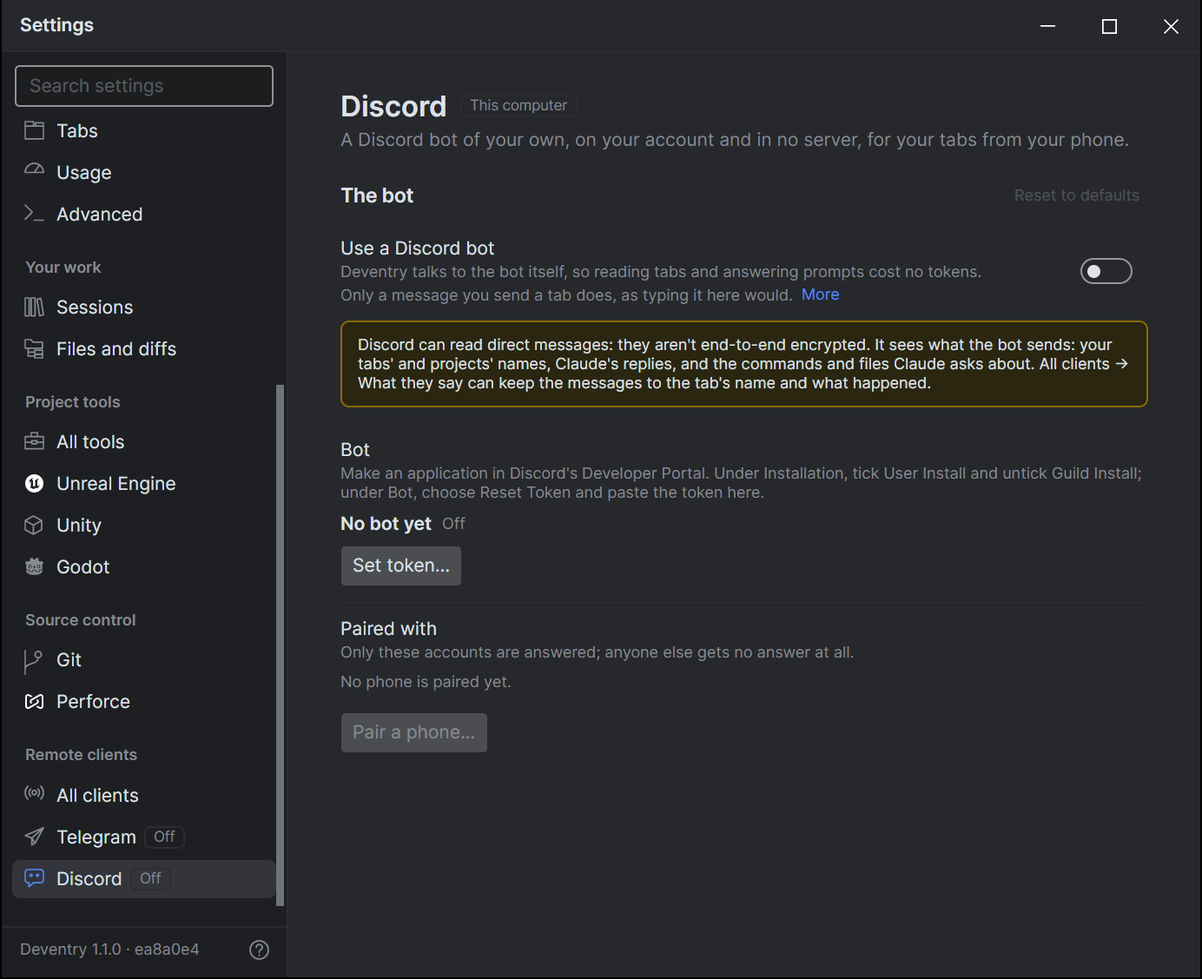
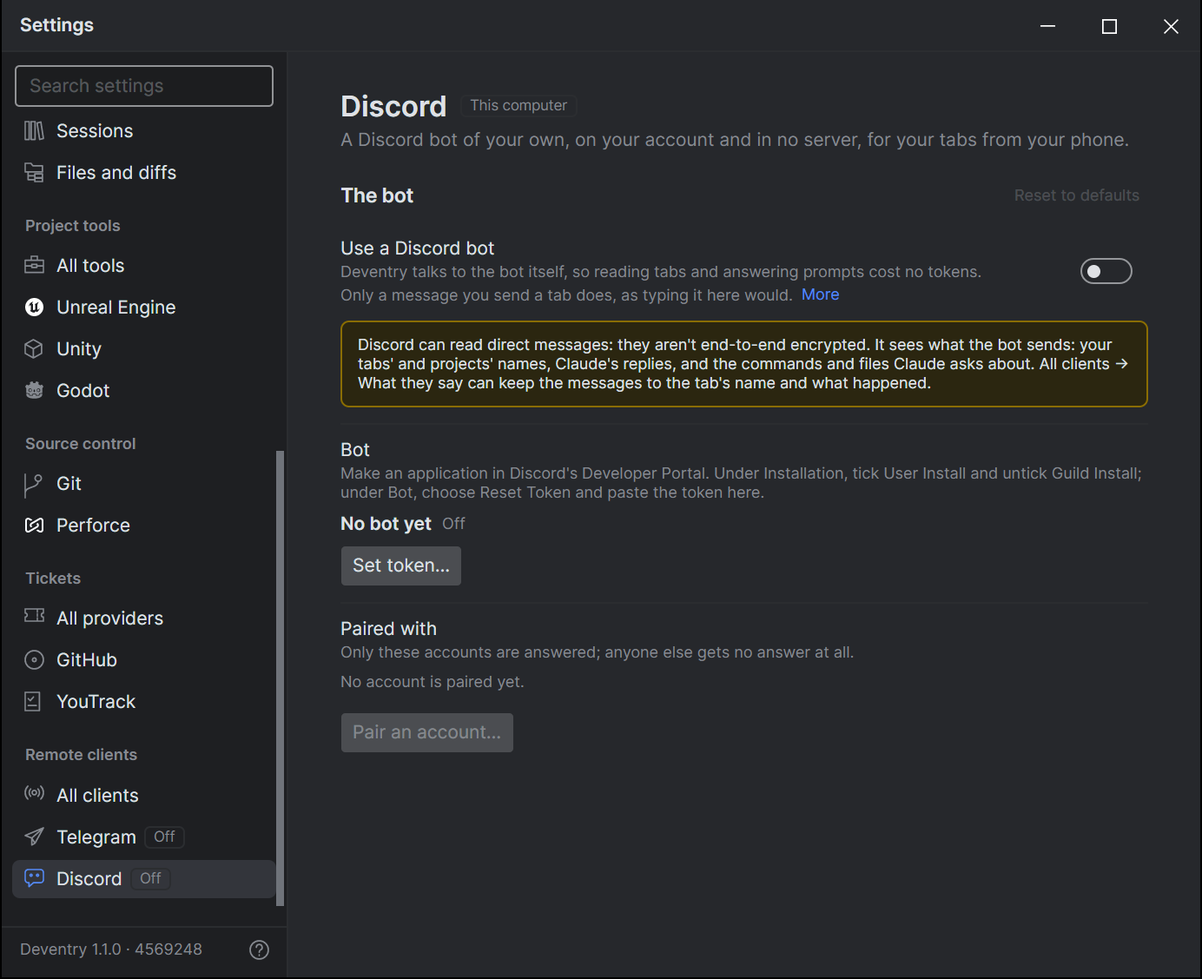
Pair an account… rather than a phone, and a Discord bot shown offline explained

diff --git a/src/Deventry.App/ViewModels/Settings/RemoteClientPage.cs b/src/Deventry.App/ViewModels/Settings/RemoteClientPage.cs
@@ -31,7 +31,7 @@ public sealed class PairedAccountRow(RemoteAccount account, string pairedAt, Act
 /// <summary>
 /// One kind of remote client's page in Settings → Remote clients (DESIGN.md §18, "Remote clients"), drawn from what the
 /// kind declares (<see cref="IRemoteClientType"/>), so a kind needs no page or view of its own: its switch, what its
-/// service can read, its own account and secret, and the accounts paired with it with pairing a phone. Telegram's is
+/// service can read, its own account and secret, and the accounts paired with it with pairing an account. Telegram's is
 /// the first. What every client shares is on <see cref="AllClientsPage"/>. All of it this computer's: a client is run by
 /// one machine, and its secret is in this machine's credential store.
 /// </summary>
@@ -254,7 +254,7 @@ public sealed partial class RemoteClientPage : SettingsPage, IDisposable
         OnPropertyChanged(nameof(HasAccounts));
     }
 
-    /// <summary>A phone can be paired: the client has its secret. Its account's name makes the QR code; without it, the code is sent by hand.</summary>
+    /// <summary>An account can be paired: the client has its secret. Its account's name makes the QR code; without it, the code is sent by hand.</summary>
     public bool CanPair => HasSecret && IsCredentialStoreAvailable;
 
     public string CanPairTip => $"Set the {Type.SecretName} first";
@@ -299,7 +299,7 @@ public sealed partial class RemoteClientPage : SettingsPage, IDisposable
     [ObservableProperty]
     public partial string PairingTimeLeft { get; private set; } = "";
 
-    /// <summary><b>Pair a phone…</b>: a new code, its QR code, and the time it has left.</summary>
+    /// <summary><b>Pair an account…</b>: a new code, its QR code, and the time it has left.</summary>
     [RelayCommand]
     private void StartPairing()
     {

diff --git a/src/Deventry.App/ViewModels/RemoteClientsIndicatorViewModel.cs b/src/Deventry.App/ViewModels/RemoteClientsIndicatorViewModel.cs
@@ -120,7 +120,7 @@ public sealed partial class RemoteClientsIndicatorViewModel : ObservableObject, 
         var state = _remote.StateOf(type.Kind);
         return state.Status switch
         {
-            RemoteClientStatus.Connected when _remote.PairingOf(type.Kind).Accounts.Count == 0 => "connected, but no phone is paired",
+            RemoteClientStatus.Connected when _remote.PairingOf(type.Kind).Accounts.Count == 0 => "connected, but no account is paired",
             RemoteClientStatus.Connected => _remote.LastSent(type.Kind) is { } sent ? $"connected, last sent {Time(sent)}" : "connected",
             RemoteClientStatus.Connecting => state.Reason is { } why ? $"connecting. {why}" : "connecting…",
             RemoteClientStatus.Failed => state.Reason is { } reason ? $"stopped. {reason}" : "stopped",

diff --git a/src/Deventry.App/Services/RemoteClientsService.cs b/src/Deventry.App/Services/RemoteClientsService.cs
@@ -88,7 +88,7 @@ public sealed class RemoteClientsService : IRemoteDesk, IAsyncDisposable
 
     public IRemoteClientType Type(string kind) => Types.First(t => t.Kind == kind);
 
-    /// <summary>Pairing a phone with the client of <paramref name="kind"/>, and the accounts paired with it.</summary>
+    /// <summary>Pairing an account with the client of <paramref name="kind"/>, and the accounts paired with it.</summary>
     public RemotePairing PairingOf(string kind) => _pairings[kind];
 
     /// <summary>The client of <paramref name="kind"/>, while it's on.</summary>

diff --git a/src/Deventry.Core/Remote/Telegram/TelegramClientType.cs b/src/Deventry.Core/Remote/Telegram/TelegramClientType.cs
@@ -2,7 +2,7 @@ namespace Deventry.Core.Remote.Telegram;
 
 /// <summary>
 /// Telegram, as a kind of remote client (DESIGN.md §18, "Remote clients", "Telegram"): a bot the user makes with
-/// @BotFather, its token kept in the credential store, and a phone paired by opening the bot with <c>/start</c> and a
+/// @BotFather, its token kept in the credential store, and an account paired by opening the bot with <c>/start</c> and a
 /// code.
 /// </summary>
 public sealed class TelegramClientType : IRemoteClientType

diff --git a/tests/Deventry.App.Tests/RemoteClientsIndicatorTests.cs b/tests/Deventry.App.Tests/RemoteClientsIndicatorTests.cs
@@ -123,7 +123,7 @@ public class RemoteClientsIndicatorTests
         await using var indicator = await StartAsync("telegram");
 
         Assert.Equal(RemoteIndicatorLevel.Trouble, indicator.Read(v => v.Level));
-        Assert.Equal("Telegram: connected, but no phone is paired", indicator.Read(v => v.Clients.Single().Line));
+        Assert.Equal("Telegram: connected, but no account is paired", indicator.Read(v => v.Clients.Single().Line));
     }
 
     [Fact]

diff --git a/src/Deventry.Core/Remote/RemotePairing.cs b/src/Deventry.Core/Remote/RemotePairing.cs
@@ -121,7 +121,7 @@ public sealed class RemotePairing
         }
     }
 
-    /// <summary><b>Pair a phone…</b>: a new code, replacing any before it.</summary>
+    /// <summary><b>Pair an account…</b>: a new code, replacing any before it.</summary>
     public PairingCode Start()
     {
         PairingCode code;

diff --git a/DESIGN.md b/DESIGN.md
@@ -2358,7 +2358,7 @@ A **Settings** window opens with `Ctrl+,` on Windows or `Cmd+,` on macOS, or fro
 | Conversation | **Steps and replies**: **Quieter in-between steps** (on by default; [§18](#conversation-cards)), **Indent your messages** and **Indent Claude's steps** (both off by default; [§18](#conversation-cards)), **Show tool calls collapsed** (off; [§18](#conversation-cards)), **Show modified files collapsed** (off; [§18](#conversation-cards)), **Fold each chain of steps** (off; each tab can have its own, [Per-tab overrides](#per-tab-overrides); [§18](#conversation-cards)), **Show thinking expanded** (off), **Show subagents' work**: under the tab in the sidebar (the default) or in the conversation ([§5](#subagents)), and **Show every hook run** (off; [§5](#hook-runs)). **Marks in the scroll bar**: **Mark your messages** (on by default) and **Mark Claude's answers** (off by default; [§18](#conversation-cards)). **While Claude works**: show fun words and show what Claude is doing (both on by default; [Working line](#working-line)), and **Messages sent while Claude works**: sent into the turn (the default) or queued until it ends ([§5](#queued-messages)). **Message box**: **Show when the prompt cache expires** (on by default) and **Suggest my next prompt** (off by default; [§5](#prompt-suggestions)). **Tab rows**: show context and task progress (both on by default; [§4](#sidebar), [§5](#tasks)), and running subagents (off by default; [§4](#sidebar)); the git branch is on Git. |
 | Notifications | **Notify me when**: a switch for each type in [§10](#10-notifications), including **A project action finishes**. **The Dock or taskbar icon**: show how many tabs need you, and animate it while tabs work or wait. |
 | All providers, GitHub, YouTrack | The **Tickets** group, after **Source control**, as **Project tools** has All tools then a page per project type. All of it this computer's. **All providers**, its icon a ticket: **Working on a ticket** (**Work on a ticket in**, **Name new tabs after their ticket** and **Include the ticket's comments**). Then a page for each provider, drawn from what it declares: **GitHub** (**Servers**, each with **Sign in with** and its token, and **Add a server…**; **Projects**: **Find a project's repository from its git remote**; **Changing tickets**: **Let Deventry change tickets**) and **YouTrack** (**Servers**, each with its token; **Changing tickets**). See [§18](#tickets). |
-| All clients, Telegram, Discord | The **Remote clients** group, the sidebar's last, as **Project tools** has All tools then a page per project type. All of it this computer's. **All clients**, its icon a phone: **What they can do** (the three levels and **Open new tabs**) and **Messages** (the events, **When**, **Count me away after** and **What they say**). Then a page for each kind of client, drawn from what it declares: **Telegram** and **Discord**, each *Off* in the sidebar until it's used: **The bot** (**Use a Telegram bot**, what Telegram can read, the bot with its token, and the accounts paired with it with **Pair a phone…**). See [§18](#remote-clients). |
+| All clients, Telegram, Discord | The **Remote clients** group, the sidebar's last, as **Project tools** has All tools then a page per project type. All of it this computer's. **All clients**, its icon a phone: **What they can do** (the three levels and **Open new tabs**) and **Messages** (the events, **When**, **Count me away after** and **What they say**). Then a page for each kind of client, drawn from what it declares: **Telegram** and **Discord**, each *Off* in the sidebar until it's used: **The bot** (**Use a Telegram bot**, what Telegram can read, the bot with its token, and the accounts paired with it with **Pair an account…**). See [§18](#remote-clients). |
 | Keyboard | **Sending**: **Send with**: Enter (the default) or `Ctrl/Cmd+Enter`. **Shortcuts**: every shortcut, each one rebindable, and the keys that can't be changed ([below](#keyboard-shortcuts)). **Quick suffixes**: the list of suffixes, each with its label, text and optional shortcut, to add, edit, reorder and delete ([§5](#quick-suffixes)). |
 | Claude Code | All of it this computer's. **Claude Code**: installed version and install method, from `claude doctor`, check for Claude Code updates automatically, and the path to `claude` (auto-detected, with **Browse…**). **Account**: the signed-in account (email, plan and organization), with **Sign in** / **Sign out…**, the same as the header's account menu ([§11](#signing-in)). **Starting a session**: **Name each tab's session in Claude Code after the tab**, ask before using a new folder's own configuration (on by default; [Folder trust](#folder-trust)), use my login shell's environment (macOS and Linux only, on by default; [§13](#login-shell-environment)), keep copies of files Claude changes, so prompts can be rewound (on by default), give Claude a task list (on by default; [§5](#tasks)), summarize subagents' progress (off by default; [§5](#subagents)), and the fallback model (none by default). **Claude app**: Connect new tabs to the Claude app (off by default; each tab has its own switch), with what it does and how to get pushes on the phone. Disabled, with the reason, when the account can't use it ([§18](#remote-control-the-claude-app)). |
 | Accounts | All of it this computer's. **Accounts**: New folders use (Default unless changed), then each account besides Default: its name, its tag's color, warnings when its estimated spend passes an amount today or this month, **Change key…** and **Remove…**. **Add an API key**: a name and the key, which goes only to the OS credential store. See [§4](#accounts). |
@@ -3551,7 +3551,7 @@ Deventry's tabs can be used from a phone, or from any app a client reaches, whil
   - **Failing.** A network error or a 5xx backs off, 5 seconds, 30, a minute, then every 5 minutes, *Connecting* with the reason meanwhile; a `429` waits the `retry_after` it gives. A `401` is *Failed*: *"Telegram didn't accept the bot's token."*
   - **While Deventry was closed.** Telegram keeps a bot's updates for 24 hours. At start, messages sent more than 2 minutes before Deventry started listening are passed over, so a `/stop` or a message from hours ago does nothing, and the bot says once how many it passed over. Buttons carry the run they were sent in, so one tapped from before a restart is stale whatever its age.
 - **Pairing.** Only the user's own Telegram account is answered.
-  - Settings → **Pair a phone…** shows a QR code of `https://t.me/<bot>?start=<code>`, and the code itself to send as `/start <code>`. The code is 8 characters from an alphabet without look-alikes (shown `7KQ2-M9XD`), works once, for 5 minutes, and only on this bot.
+  - Settings → **Pair an account…** shows a QR code of `https://t.me/<bot>?start=<code>`, and the code itself to send as `/start <code>`. The code is 8 characters from an alphabet without look-alikes (shown `7KQ2-M9XD`), works once, for 5 minutes, and only on this bot.
   - Scanning it opens the bot in Telegram, which sends `/start <code>`. The account that sends a valid code is paired by its Telegram user id (its name and `@username` are shown, and can change), with when. The bot answers *"Paired with Deventry on DESK."*, using this machine's name (Settings → Sessions), with how replying and `/tabs` work.
   - Everyone else gets no answer at all, so the bot doesn't confirm it belongs to anyone. Group chats are ignored too: only private chats with a paired account count. Five wrong codes within 10 minutes end the pairing; Settings starts a new one.
   - Settings lists the paired accounts, each with **Unpair…**. Messages go to each of them.
@@ -3591,8 +3591,9 @@ Deventry's tabs can be used from a phone, or from any app a client reaches, whil
   - It identifies on Discord's hello, and beats at the interval Discord gives, the first after a random part of it. A beat that finds the last one unanswered leaves the socket and resumes the session on a new one, at the address `READY` gave. Discord asking it to reconnect resumes at once; an invalid session waits 1 to 5 seconds and identifies again, as do the closes that can't be resumed (4007, 4009). Stopping closes with 1000, which ends the session.
   - **Failing.** As Telegram's: a network error backs off 5 seconds, 30, a minute, then every 5 minutes, *Connecting* with the reason meanwhile, and a `429` waits its `retry_after`. A refused token (`401`, or the Gateway closing with 4004) is *Failed*: *"Discord didn't accept the bot's token."*
   - **While Deventry was closed.** Discord keeps nothing for a bot that isn't connected, so nothing is passed over: a message sent meanwhile is lost, and the buttons' run makes an old one stale.
+  - **Shown offline.** Discord shows a user's status, a bot's too, only to those who share a server with it or are its friends, so the user sees their bot offline while it's connected: Settings' state is what tells. Deventry sends no presence.
   - **One program per bot.** Discord lets two programs connect with one token, and both hear everything. The first to answer an interaction wins and the other is told so (`40060`), which Settings shows on the connected client: *"Another Deventry, or another program, answered first: only one should use this bot."* Each machine makes its own app.
-- **Pairing.** Settings → **Pair a phone…** shows a QR code of the link that adds the app to the account that opens it (`https://discord.com/oauth2/authorize?client_id=<app>&integration_type=1&scope=applications.commands`, **Add to My Apps**), **Open the link** for this computer, and the code to send as `/pair <code>`.
+- **Pairing.** Settings → **Pair an account…** shows a QR code of the link that adds the app to the account that opens it (`https://discord.com/oauth2/authorize?client_id=<app>&integration_type=1&scope=applications.commands`, **Add to My Apps**), **Open the link** for this computer, and the code to send as `/pair <code>`.
   - `/pair` works in any chat (the command's contexts are a server, the bot's DM and other DMs), since a new install may not show the bot's DM yet. From another chat only its sender sees the answer, and the bot writes its welcome in their DM, which it opens itself. Discord doesn't let it until the user has written to the bot, so a first pairing's answer says to open the bot's profile, choose **Message** and write to it; in the DM the bot welcomes them. The pairing steps in Settings say so ahead.
   - The code is checked as it arrives, so a wrong one, or anyone else's command, gets no answer at all, as in Telegram. Paired accounts are kept by their Discord user id.
 - **Interactions.** Discord gives an interaction 3 seconds to be answered, so each is answered as it arrives, before the loop gets to it: a tap with nothing to show (`DEFERRED_UPDATE_MESSAGE`), a command with Discord's *"thinking…"* (`DEFERRED_CHANNEL_MESSAGE_WITH_SOURCE`). A command's answer then comes as messages of their own, which can be replied to and edited for as long as they're needed, where an interaction's answer lasts only the 15 minutes of its token; the *"thinking…"* is deleted once they're sent. What Telegram shows over the chat when a button is tapped (*"Allow"*, or why not) is a follow-up only the user sees.
@@ -3633,8 +3634,8 @@ Deventry's tabs can be used from a phone, or from any app a client reaches, whil
 **Settings → Remote clients.** A group of its own in Settings' sidebar, the last, as Project tools is: **All clients**, with the header indicator's broadcast glyph, then a page for each kind of client, drawn from what the kind declares (`IRemoteClientType`), so a kind needs no page or view of its own. All of it this computer's, never synced: a bot is polled by one machine, and its token is in this machine's credential store. Its settings are under `remoteClients` in `settings.json`, each kind's by its kind (`remoteClients.clients.telegram.enabled`); the paired accounts, and each client's own account's name, are in `state.json`.
 
 - **All clients**: what every client shares. **What they can do**: the three levels and **Open new tabs**, with a line saying what's only at the desk. **Messages**: the events, **When** (**While I'm away**, with what counts as away under it, or **Always**), **Count me away after** (5 minutes), and **What they say**: **Everything** (the default) or **Just what happened**.
-- **Telegram**, with a paper plane's icon, Deventry's own drawing, and *Off* after its name in the sidebar until it's used, as a project type switched off has. **The bot**: **Use a Telegram bot** (off by default; *"Deventry talks to the bot itself, so reading tabs and answering prompts cost no tokens."*) and the privacy note, in the caution colors; **Bot**: its `@username` and state (*Connected*, *Connecting…*, or why not, with the fix it offers), with **Set token…** (**Change token…** once there is one) and **Remove…**, and how to make one with @BotFather; **Paired with**: each account with **Unpair…**, and **Pair a phone…**, which shows the QR code and the code inline with the time left, **Open the link** (the QR code's link, on this computer) and **Cancel**.
-- **Discord**, with a speech bubble's icon, Deventry's own drawing, and *Off* until it's used, as Telegram's: **Use a Discord bot** and the privacy note; **Bot**: its name and state, with **Set token…** and **Remove…**, and how to make one in the Developer Portal; **Paired with**, and **Pair a phone…**, whose QR code and link add the app to the account.
+- **Telegram**, with a paper plane's icon, Deventry's own drawing, and *Off* after its name in the sidebar until it's used, as a project type switched off has. **The bot**: **Use a Telegram bot** (off by default; *"Deventry talks to the bot itself, so reading tabs and answering prompts cost no tokens."*) and the privacy note, in the caution colors; **Bot**: its `@username` and state (*Connected*, *Connecting…*, or why not, with the fix it offers), with **Set token…** (**Change token…** once there is one) and **Remove…**, and how to make one with @BotFather; **Paired with**: each account with **Unpair…**, and **Pair an account…**, which shows the QR code and the code inline with the time left, **Open the link** (the QR code's link, on this computer) and **Cancel**.
+- **Discord**, with a speech bubble's icon, Deventry's own drawing, and *Off* until it's used, as Telegram's: **Use a Discord bot** and the privacy note; **Bot**: its name and state, with **Set token…** and **Remove…**, and how to make one in the Developer Portal; **Paired with**, and **Pair an account…**, whose QR code and link add the app to the account.
 - Search finds them by "telegram", "discord", "bot", "phone", "remote", "mobile" and "pair": the group's words find every page, as Source control's do.
 - Settings → General → **Keeping the computer awake** gets **Also while a remote client is on** (on by default), as for the Claude app: a sleeping computer can't answer the bot ([§9](#keeping-the-computer-awake)).
 - Diagnostics (Settings → Advanced) says each client's state, how many accounts are paired, and its last error, without the token or any message's text.

diff --git a/docs/away/remote-clients.md b/docs/away/remote-clients.md
@@ -17,7 +17,7 @@ Each way in is a *remote client*: a Telegram bot, or a Discord bot on your own D
 
 Settings has a group for them, **Remote clients**, at the end of its sidebar: **All clients** for what they all share, then a page for each: **Telegram** and **Discord**.
 
-{% include shot.html name="guide/away/remote-clients" alt="Settings on Remote clients → Telegram, before a bot is set up: The bot, with Use a Telegram bot off and a note in yellow that Telegram can read bot chats; Bot, with No bot yet and Set token…; and Paired with, with No phone is paired yet and Pair a phone… disabled. The sidebar's last group, Remote clients, has All clients, then Telegram and Discord, each marked Off." %}
+{% include shot.html name="guide/away/remote-clients" alt="Settings on Remote clients → Telegram, before a bot is set up: The bot, with Use a Telegram bot off and a note in yellow that Telegram can read bot chats; Bot, with No bot yet and Set token…; and Paired with, with No account is paired yet and Pair an account… disabled. The sidebar's last group, Remote clients, has All clients, then Telegram and Discord, each marked Off." %}
 
 ## Not the Claude app
 
@@ -49,9 +49,9 @@ You make the bot in Discord's Developer Portal, once, as an app that goes on you
 3. Under **Bot**, choose **Reset Token** and copy the token, three parts with dots between them.
 4. In Deventry, open Settings → Remote clients → **Discord**, turn on **Use a Discord bot**, choose **Set token…**, paste the token and choose **Save token**.
 
-Deventry keeps the token only in your computer's credential store, as it does Telegram's. Under **Bot**, Settings shows the bot's name and whether it's **Connected**.
+Deventry keeps the token only in your computer's credential store, as it does Telegram's. Under **Bot**, Settings shows the bot's name and whether it's **Connected**. Discord itself shows the bot offline even then: it shows someone's status only to people who share a server with them, and the bot is in none.
 
-{% include shot.html name="guide/away/remote-clients-discord" alt="Settings on Remote clients → Discord, before a bot is set up: The bot, with Use a Discord bot off and a note in yellow that Discord can read direct messages; Bot, with No bot yet, how to make one in the Developer Portal, and Set token…; and Paired with, with Pair a phone… disabled." %}
+{% include shot.html name="guide/away/remote-clients-discord" alt="Settings on Remote clients → Discord, before a bot is set up: The bot, with Use a Discord bot off and a note in yellow that Discord can read direct messages; Bot, with No bot yet, how to make one in the Developer Portal, and Set token…; and Paired with, with Pair an account… disabled." %}
 
 ### What the app needs
 
@@ -71,23 +71,23 @@ There's no server to set up here either: Deventry keeps a connection open to Dis
 
 If Settings says the app can't be added to a Discord account, tick **User Install** under **Installation**. If it says the app sends its commands to a web address, clear **Interactions Endpoint URL** under **General Information**. Then turn **Use a Discord bot** off and on again.
 
-## Pairing your phone
+## Pairing your account
 
 The bot answers only the accounts you pair with it. Anyone else who finds it gets no answer at all.
 
 In Telegram:
 
-1. In Settings → Remote clients → **Telegram**, choose **Pair a phone…**. Deventry shows a QR code, and a code like `7KQ2-M9XD`.
+1. In Settings → Remote clients → **Telegram**, choose **Pair an account…**. Deventry shows a QR code, and a code like `7KQ2-M9XD`.
 2. Scan the QR code with your phone's camera. It opens the bot in Telegram; tap **Start**. Or send the bot `/start` and the code yourself.
 3. The bot answers *Paired with Deventry on DESK.*, with your computer's name, and Settings lists your account under **Paired with**.
 
-A code works once, for five minutes, and five wrong codes end it: choose **Pair a phone…** again for a new one. To stop the bot answering an account, choose **Unpair…** beside it.
+A code works once, for five minutes, and five wrong codes end it: choose **Pair an account…** again for a new one. To stop the bot answering an account, choose **Unpair…** beside it.
 
 Only private chats with the bot count. Adding it to a group does nothing.
 
 In Discord:
 
-1. In Settings → Remote clients → **Discord**, choose **Pair a phone…**. Deventry shows a QR code, **Open the link**, and a code like `7KQ2-M9XD`.
+1. In Settings → Remote clients → **Discord**, choose **Pair an account…**. Deventry shows a QR code, **Open the link**, and a code like `7KQ2-M9XD`.
 2. Scan the QR code with your phone's camera, or choose **Open the link** on this computer, and choose **Add to My Apps**. The bot is on your Discord account now.
 3. In any chat in Discord, send `/pair` with the code. Only you see its answer.
 4. Discord doesn't let a bot write to you before you've written to it, so the answer asks you to: open the bot's profile from the answer, choose **Message**, and send it `/help`. The bot answers in its direct messages, which is where it writes to you from then on.
@@ -157,7 +157,7 @@ While a remote client is on, the header has an icon for it beside the [cup](keep
 - **Muted**: connected, and you're at the desk, so messages wait (or come silently, with **Always**). Also while messages are quiet.
 - **In the accent color**: connected, and you're away, so messages go to your phone.
 - **Dimmed**: a client is connecting, or trying again after a network problem.
-- **In the warning color**: a client has stopped and needs you, for example because Telegram or Discord didn't accept its token or another program uses the bot, or no phone is paired yet.
+- **In the warning color**: a client has stopped and needs you, for example because Telegram or Discord didn't accept its token or another program uses the bot, or no account is paired yet.
 
 Its arcs light up outward when a client sends you a message or gets one from you. With motion reduced, they only take the accent color for a moment.
 

diff --git a/CHANGELOG.md b/CHANGELOG.md
@@ -26,9 +26,9 @@ The format follows [Keep a Changelog](https://keepachangelog.com/en/1.1.0/), and
 
 - **Every image, video and sound in a tab, in one place.** The **Media** window, on the strip of icons at the right once a conversation has any, gathers them into two sections you can fold: **User**, the images you attach and the files your messages name, and **Agent**, the images Claude's tools hand it (an image it read, a screenshot from a browser tool) and the image, video and sound files Claude and its subagents write, read, make with a command or name in a reply. Newest first, each once. Click one to open an image in Deventry's image window, or a video or a sound in the app your OS uses for it; right-click for **Show in conversation**, **Reveal in file manager** and **Copy path**. See [Media](https://deventry.app/conversation/media/).
 
-- **Your tabs from your phone, through a Telegram bot.** Make a bot with @BotFather, give Deventry its token in Settings → Remote clients → **Telegram**, and pair your phone with **Pair a phone…** by scanning a QR code. The bot tells you when a tab needs you or finishes, with the start of the reply and the files it changed; answers its prompts with a tap (**Allow**, **Deny**, a question's options, a plan's approvals); sends a message to a tab when you reply to one of its messages, or to the tab `/to` picks; stops Claude; and shows your tabs (`/tabs`) and usage (`/usage`). Deventry talks to the bot itself, so none of that costs tokens but what you send a tab. By default it sends messages only while you're away: Deventry not in front, the computer locked or asleep, or nobody at it for five minutes. Only the accounts you pair are answered, the bot's token stays in your computer's credential store, and Remote clients → **All clients** chooses how much it can do and tell Telegram. While it's on, an icon beside the header's cup says whether messages are going to your phone or waiting, lights up as one goes or comes, takes the warning color if the bot needs you, and has **Quiet for an hour** in its menu. See [Remote clients](https://deventry.app/away/remote-clients/).
+- **Your tabs from your phone, through a Telegram bot.** Make a bot with @BotFather, give Deventry its token in Settings → Remote clients → **Telegram**, and pair your Telegram account with **Pair an account…** by scanning a QR code. The bot tells you when a tab needs you or finishes, with the start of the reply and the files it changed; answers its prompts with a tap (**Allow**, **Deny**, a question's options, a plan's approvals); sends a message to a tab when you reply to one of its messages, or to the tab `/to` picks; stops Claude; and shows your tabs (`/tabs`) and usage (`/usage`). Deventry talks to the bot itself, so none of that costs tokens but what you send a tab. By default it sends messages only while you're away: Deventry not in front, the computer locked or asleep, or nobody at it for five minutes. Only the accounts you pair are answered, the bot's token stays in your computer's credential store, and Remote clients → **All clients** chooses how much it can do and tell Telegram. While it's on, an icon beside the header's cup says whether messages are going to your phone or waiting, lights up as one goes or comes, takes the warning color if the bot needs you, and has **Quiet for an hour** in its menu. See [Remote clients](https://deventry.app/away/remote-clients/).
 - **Your project's GitHub and YouTrack issues, in a Tickets tab.** A group whose folder's git remote is on GitHub has a **Tickets** button on its row, and any project can name its GitHub repositories and YouTrack projects in its settings' **Tickets** page. The tab lists the tickets, with a filter that takes the tracker's own search words, shows one with its comments, and **Work on it** starts a tab on it, or a tab in a worktree named for it, with the ticket in its message, ready for you to send. The tab is named after its ticket and goes back to it with **Open ticket**. Sign in to GitHub with a token, the GitHub CLI or Git Credential Manager, and to YouTrack with a token, in Settings → Tickets; tokens stay in your system's credential store. Turn on **Let Deventry change tickets** to comment, change a ticket's state or assign it to yourself from the tab.
-- **Your tabs from Discord too.** Make an app in Discord's Developer Portal that goes on your own account rather than in a server, give Deventry its bot's token in Settings → Remote clients → **Discord**, add it to your account with **Pair a phone…**, and send it `/pair` with the code from any chat. It does everything the Telegram bot does, in its direct messages, with Discord's slash commands and buttons.
+- **Your tabs from Discord too.** Make an app in Discord's Developer Portal that goes on your own account rather than in a server, give Deventry its bot's token in Settings → Remote clients → **Discord**, add it to your account with **Pair an account…**, and send it `/pair` with the code from any chat. It does everything the Telegram bot does, in its direct messages, with Discord's slash commands and buttons.
 
 ### Changed
 

diff --git a/GUIDE.md b/GUIDE.md
@@ -259,7 +259,7 @@ One page, out of the sidebar and linked from both footers and the privacy chapte
 | Notifications | Each kind and its switch, what they say, when they're skipped, where a click goes. | [§10](DESIGN.md#10-notifications) |
 | The Dock and taskbar icon | The badge, the icon's animation, the taskbar's flash. | [§10](DESIGN.md#10-notifications) |
 | The Claude app | **Connect to the Claude app**, **Open in the Claude app**, the phone icon, pushes to your phone, who can't use it, and what an organization has turned off (Settings → Accounts). | [Remote Control](DESIGN.md#remote-control-the-claude-app) |
-| Remote clients | Settings' **Remote clients** group (**All clients**, then **Telegram** and **Discord**), and the bots: how they differ from the Claude app, making a Telegram one with @BotFather and a Discord one in the Developer Portal (User Install, in no server), **Set token…**, one program per bot, a Telegram bot with a webhook and a Discord app that can't be added to an account or sends its commands to a web address, **Pair a phone…** (Telegram's `/start`; Discord's **Add to My Apps**, `/pair` from any chat, and what to do when Discord won't let the bot write first) and **Unpair…**, what the bot sends and its buttons, a prompt closing, talking to a tab (replies, `/to`, live status), the commands, **When** and what counts as away, the header's icon (its colors, its arcs lighting up, its tooltip and menu, **Quiet for an hour**), **What they can do**, privacy and **Just what happened**, keeping the computer awake. | [Remote clients](DESIGN.md#remote-clients) |
+| Remote clients | Settings' **Remote clients** group (**All clients**, then **Telegram** and **Discord**), and the bots: how they differ from the Claude app, making a Telegram one with @BotFather and a Discord one in the Developer Portal (User Install, in no server), **Set token…**, one program per bot, a Telegram bot with a webhook and a Discord app that can't be added to an account or sends its commands to a web address, **Pair an account…** (Telegram's `/start`; Discord's **Add to My Apps**, `/pair` from any chat, and what to do when Discord won't let the bot write first) and **Unpair…**, what the bot sends and its buttons, a prompt closing, talking to a tab (replies, `/to`, live status), the commands, **When** and what counts as away, the header's icon (its colors, its arcs lighting up, its tooltip and menu, **Quiet for an hour**), **What they can do**, privacy and **Just what happened**, keeping the computer awake. | [Remote clients](DESIGN.md#remote-clients) |
 | Keeping the computer awake | Settings → General, the header's cup, when it holds off sleep. | [Keeping the computer awake](DESIGN.md#keeping-the-computer-awake) |
 | Starting at login | **Start Deventry when I log in**, which copy starts, when the switch is turned off elsewhere. | [Starting at login](DESIGN.md#starting-at-login) |
 
